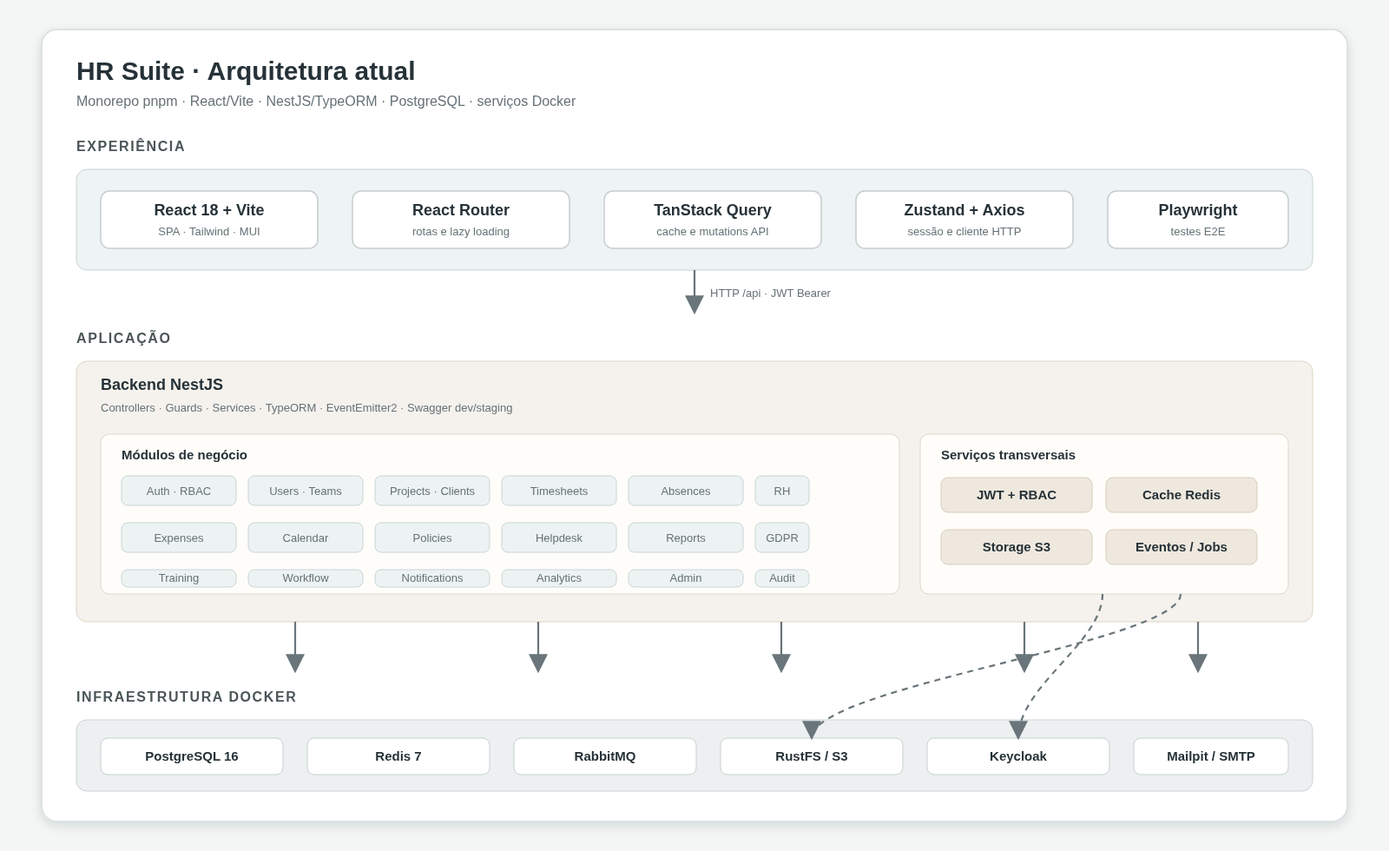
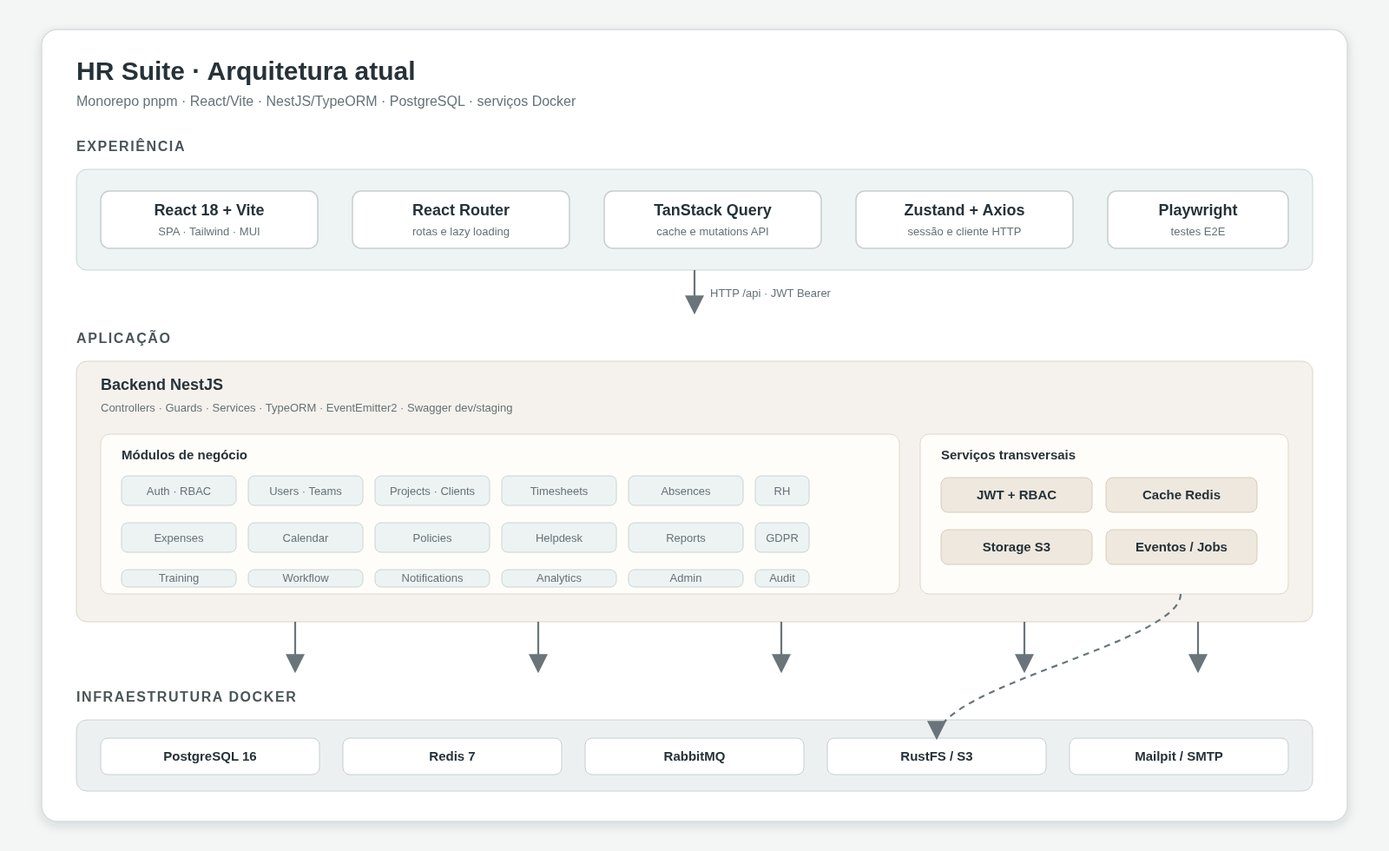
docs: remove Keycloak from the current architecture diagram (P-101)
Keycloak was removed in P-094 but the architecture diagram brought in
from develop still showed it. Remove the node and its connector,
re-space the infrastructure row and re-render the PNG. Add P-094 notes
to two historical entries in specs/AUDIT.md (P101-11).

diff --git a/PROJECT_STATE.md b/PROJECT_STATE.md
@@ -121,6 +121,7 @@
 | P-101     | 04    | 2026-09-29 | **Mensagem em vez de spinner infinito para anexos em falta** (P101-09, escolhido pelo utilizador). `frontend/src/components/AnnouncementAssetPreview.tsx`: o hook `useAnnouncementAssetObjectUrl` devolve `{ objectUrl, isError }`, e os ramos de imagem e vídeo mostram `Ficheiro não disponível` (`Typography` `text.secondary`, `body2`) quando o download falha. Sem alteração ao `retry: 1` global do React Query — a mensagem aparece ≈1,4 s depois. Frontend sem testes unitários; verificado num browser real (Playwright/Chromium) contra o `docker-compose.devserver.yml` reconstruído num projeto isolado com o build de produção do frontend: comunicado com o ficheiro apagado no RustFS mostra a mensagem, sem spinner nem `img`; comunicado com ficheiro válido continua a mostrar a imagem (480x240) sem mensagem. ESLint 0 erros (o aviso `explicit-function-return-type` na limpeza do `useEffect` é anterior); `tsc` limpo. Projeto de teste removido (`down -v --rmi local`).                                                                                                                                                                                                                                                                                                                                                                                                                                                                                                                                                                                                                                                                                                                                                                                                                                                                                                                                                                                                                                                                                                                                                                                                                                                                                                                                                                                                                                                                                                                                                                                                                                                                                                                                                                                                                                                                                                                                                                                                                                                                                                                                                                                                                                                                                                                                                                                                                                                                                                                                                                                                                                                                                                                                                                                                                                                                                                                                                                                                                                                                                                                                                                                                                                                                                                                                                                                                                                                                                                                                                                                                                                                                                                                                                                                                                                                                                                                                         |
 | P-101     | 05    | 2026-09-29 | **README: login na consola do RustFS** (pedido do utilizador — não era óbvio). Nova subsecção "Login na consola do RustFS" em "Aceder": Access Key/Secret Key = `STORAGE_ACCESS_KEY`/`STORAGE_SECRET_KEY` do `.env` (comando para as ver), valores por omissão do compose de dev (`rustfsadmin`), e como recriar o RustFS depois de mudar as chaves (Modo A e Modo B). Verificado antes de documentar, com contentor e volume descartáveis: recriar o RustFS com chaves novas sobre um volume existente mantém o bucket, as chaves novas funcionam e as antigas são rejeitadas (`InvalidAccessKeyId`).                                                                                                                                                                                                                                                                                                                                                                                                                                                                                                                                                                                                                                                                                                                                                                                                                                                                                                                                                                                                                                                                                                                                                                                                                                                                                                                                                                                                                                                                                                                                                                                                                                                                                                                                                                                                                                                                                                                                                                                                                                                                                                                                                                                                                                                                                                                                                                                                                                                                                                                                                                                                                                                                                                                                                                                                                                                                                                                                                                                                                                                                                                                                                                                                                                                                                                                                                                                                                                                                                                                                                                                                                                                                                                                                                                                                                                                                                                                                                                                                                                                                                                                                                                                                                                                                                                                                    |
 | P-101     | 06    | 2026-09-29 | **Merge de `origin/develop` em `feature/rustfs-storage`** (P101-10, escolhido pelo utilizador: o `develop` avançou 5 commits — Políticas/UI da Barbara, `bfa92df`). 2 conflitos: `docs/ARCHITECTURE.md` — mantido o novo diagrama do `develop`, com `RustFS / S3` no lugar de `MinIO / S3` (nó, ligação e texto), ADR-007/ADR-016 intactos; `RESUME_PROMPT.md` — mantido o lado do branch (linha "Stack", P-101, P-100 como fase anterior): o lado do `develop` removia a linha "Stack" e reintroduzia P-090/P-089 com a numeração antiga, cópias das entradas P-098/P-097 já presentes (renumeradas no merge de 2026-09-23); as entradas P-093/P-092 de Políticas entraram sem conflito. Novos ficheiros do `develop` com MinIO: `docs/architecture-current.svg` (etiqueta alterada para `RustFS / S3`) e `docs/architecture-current.png` (re-renderizado a partir do SVG com Chromium a 1600x980 — mesma geometria; o SVG pede `Segoe UI`, fonte do Windows inexistente em Linux, pelo que o PNG usa o fallback Arial declarado no próprio SVG). Verificação pós-merge: `pnpm install --frozen-lockfile`, lint 0 erros (avisos novos vêm do código do `develop`), backend 491/491, `tsc` e build de produção do frontend OK. **Falha encontrada (do `develop`, fora do âmbito):** o novo diagrama mostra um nó **Keycloak**, removido em P-094.                                                                                                                                                                                                                                                                                                                                                                                                                                                                                                                                                                                                                                                                                                                                                                                                                                                                                                                                                                                                                                                                                                                                                                                                                                                                                                                                                                                                                                                                                                                                                                                                                                                                                                                                                                                                                                                                                                                                                                                                                                                                                                                                                                                                                                                                                                                                                                                                                                                                                                                                                                                                                                                                                                                                                                                                                                                                                                                                                                                                                                                                                                                                                                                                                                                                                                                                                                                                                                                                                                                                                                                         |
+| P-101     | 07    | 2026-09-29 | **Referências ao Keycloak como componente atual** (P101-11). `docs/architecture-current.svg`: removidos o nó Keycloak e a ligação tracejada para ele; as 5 caixas restantes da infraestrutura redistribuídas uniformemente (252 px, mesmas margens) e a ligação tracejada de armazenamento reapontada ao centro de `RustFS / S3`; PNG re-renderizado (1600x980) e revisto visualmente. As 3 frases de specs inicialmente classificadas como "atuais" revelaram-se registos de fase (P-059, P-067, P-068): `specs/ADMIN.md` já tinha a nota de P-094; em `specs/AUDIT.md` acrescentadas 2 notas de P-094 no mesmo formato (sem reescrever o histórico) — a segunda afirma que o `POST /admin/users` é o único caminho da aplicação que cria um `User` (além dos seeds), confirmado no código (`AdminService` é o único `userRepository.create`; o GDPR só anonimiza).                                                                                                                                                                                                                                                                                                                                                                                                                                                                                                                                                                                                                                                                                                                                                                                                                                                                                                                                                                                                                                                                                                                                                                                                                                                                                                                                                                                                                                                                                                                                                                                                                                                                                                                                                                                                                                                                                                                                                                                                                                                                                                                                                                                                                                                                                                                                                                                                                                                                                                                                                                                                                                                                                                                                                                                                                                                                                                                                                                                                                                                                                                                                                                                                                                                                                                                                                                                                                                                                                                                                                                                                                                                                                                                                                                                                                                                                                                                                                                                                                                                                      |
 
 | P-089 | 00 | 2026-09-18 | 2 bugs reportados diretamente pelo utilizador ao usar Comunicados. **Bug 1**: `POST /announcements/:id/assets/upload` devolvia 500 (`NoSuchBucket: The specified bucket does not exist`) — o serviço one-shot `createbuckets` (de P-088) nunca tinha corrido de facto neste ambiente local (nem sequer existia parado); corrigido manualmente com `mc mb` ligado à rede `srh-dev_default`, usando as credenciais reais do `.env` (não as de exemplo) — correção pontual de ambiente, sem alteração de código (o bucket volta a desaparecer se os volumes do MinIO forem recriados; o `createbuckets` do compose devia resolver isto automaticamente, mas não foi investigado porquê não correu). **Bug 2**: confirmado que a DB/backend já suportava perfeitamente imagens/vídeos/documentos (`hr.announcement_assets`, sem restrição de mimetype) — o gap real era só no frontend: `AnnouncementsPage.tsx` nunca renderizava `item.assets` (nenhum `<img>`/`<video>`/link) nem oferecia um formulário interativo para responder a `item.forms` (só mostrava o título em texto simples), apesar de `POST /announcements/forms/:formId/responses` já estar implementado no backend sem nenhum consumidor no frontend. Decisão P089-00 (pedido explícito do utilizador): implementar a opção completa, dividida em 2 sub-agentes sequenciais tratando do mesmo ficheiro — Agente 1 acrescentou a renderização de `item.assets` (`image`→`<img>`, `video`→`<video controls>`, `document`/`link`→link clicável); Agente 2 acrescentou nova função `respondToAnnouncementForm()` em `announcements.api.ts` e um novo componente local `AnnouncementFormCard` em `AnnouncementsPage.tsx` (`TextField`/`Select`/`Checkbox` dinâmicos por `AnnouncementFormField.type`, `useMutation` para submeter, mensagem de sucesso/erro). Só frontend alterado (+1 função no cliente API), sem migração nem endpoint novo. `pnpm run lint` (0 erros, 2 avisos pré-existentes de `explicit-function-return-type` não relacionados) e `pnpm run build` (raiz) green. |
 
@@ -281,6 +282,7 @@
 | P101-07 | Há ficheiros no MinIO a preservar antes de trocar para o RustFS (consequência de P101-03)?                                                                                                                                                                            | **Não** — verificado pelo utilizador no servidor de dev a 2026-09-28 (consola do Portainer): `mc du` = 0 objetos em `srh-documents`, e 0 registos em `hr.documents`, `hr.announcement_assets` (com `storage_path`) e `hr.report_jobs` (com `result_url`); dev local também vazio                                                                                                                                                                                                                                                                                                                                                                                                                                                            | Nenhum registo órfão; o branch pode ser integrado sem migração de dados. Não há produção com dados conhecida (Q-RFS-003)          |
 | P101-08 | Objeto em falta no armazenamento: manter o 500 ou devolver 404                                                                                                                                                                                                        | **404** — escolhido pelo utilizador. `StorageService.getObjectStream()` converte `NoSuchKey` em `NotFoundException('Ficheiro não disponível')`; outros erros continuam a propagar                                                                                                                                                                                                                                                                                                                                                                                                                                                                                                                                                           | Documents, Comunicados e Relatórios (os 3 chamadores) passam a responder 404 quando o ficheiro não existe                         |
 | P101-09 | Anexo de Comunicado cujo ficheiro falta: spinner infinito no frontend                                                                                                                                                                                                 | **Corrigir já** — escolhido pelo utilizador. `useAnnouncementAssetObjectUrl` passa a devolver também `isError`; imagem e vídeo mostram "Ficheiro não disponível" em vez do spinner                                                                                                                                                                                                                                                                                                                                                                                                                                                                                                                                                          | Comunicados e Dashboard (os 2 sítios que usam `AnnouncementAssetPreview`); documentos e links não mudam                           |
+| P101-11 | Que referências ao Keycloak remover (77 em 13 ficheiros: diagrama atual, notas "removido em P-094", passos de limpeza em upgrades, requisito de SSO adiado, histórico)                                                                                                | **Só o que o descreve como atual** — escolhido pelo utilizador                                                                                                                                                                                                                                                                                                                                                                                                                                                                                                                                                                                                                                                                              | Diagrama corrigido; notas de P-094, passos de upgrade, `specs/AUTH.md` (UC-AUTH-002) e histórico mantidos                         |
 
 ## Current State
 

diff --git a/specs/AUDIT.md b/specs/AUDIT.md
@@ -177,11 +177,11 @@ Novo `ContractsService.terminate(id, dto)` (valida `status === ACTIVE`, mesmo pa
 
 **Verificação em ambiente real completa**: contrato de teste real criado (`draft`); `terminate` tentado antes de ativar corretamente rejeitado (400, máquina de estados); contrato ativado via `PATCH`; `terminate` confirmado a definir `status: terminated`, `terminatedAt` e `terminationReason`; `hr.audit_logs` confirmado via `psql` a registar `Created`/`Updated`/`Terminated` para o contrato de teste. Dados de teste eliminados, `hr.audit_logs` limpa no fecho da sessão.
 
-**Restam por ligar**: só 1 evento — Admin `UserCreated` (sem fluxo admin de criação de conta `User`, só provisionamento JIT via Keycloak no primeiro login SSO). Ver `specs/GLOBAL-TASKS-RISKS.md` (`R-044`) para o detalhe atualizado.
+**Restam por ligar**: só 1 evento — Admin `UserCreated` (sem fluxo admin de criação de conta `User`, só provisionamento JIT via Keycloak no primeiro login SSO). Ver `specs/GLOBAL-TASKS-RISKS.md` (`R-044`) para o detalhe atualizado. _(Nota de P-094: o Keycloak e o SSO foram removidos — o provisionamento JIT deixou de existir.)_
 
 ### Wiring final — Admin UserCreated (P-068), `R-044` resolvido
 
-Investigação confirmou que o único caminho que cria um `User` hoje é o provisionamento JIT via Keycloak no primeiro login SSO (`KeycloakService.syncUser()`); não existe nenhum fluxo admin de criação manual de conta, e nem `specs/USERS.md` nem `specs/ADMIN.md` alguma vez o descreveram — `Q-USR-001` ("onboarding formal") continua em aberto em `specs/USERS.md`. Apresentadas 4 opções ao utilizador (decisão P068-01): documentar sem correspondência real (mesmo padrão de `gdpr.incident.escalated` em P-048), um endpoint `User` isolado mínimo, reaproveitar `POST /users` (Employee) assumindo ser a mesma ação (mesmo raciocínio de RBAC em P-066), ou um endpoint completo `User`+`Employee` com fluxo de credenciais/convite. **Escolhido o endpoint `User` isolado mínimo** — reaproveitar `POST /users` foi descartado porque um `User` normalmente já existe via JIT _antes_ do `Employee` correspondente ser criado, pelo que "Employee criado" não corresponde de forma fiável a "User criado"; o endpoint completo foi descartado por arrastar `Q-USR-001` (decisão de produto maior, não pedida).
+Investigação confirmou que o único caminho que cria um `User` hoje é o provisionamento JIT via Keycloak no primeiro login SSO (`KeycloakService.syncUser()`); não existe nenhum fluxo admin de criação manual de conta, e nem `specs/USERS.md` nem `specs/ADMIN.md` alguma vez o descreveram — `Q-USR-001` ("onboarding formal") continua em aberto em `specs/USERS.md`. _(Nota de P-094: o Keycloak, o SSO e o provisionamento JIT foram removidos; desde então, o `POST /admin/users` criado nesta fase é o único caminho da aplicação que cria um `User` (além dos seeds).)_ Apresentadas 4 opções ao utilizador (decisão P068-01): documentar sem correspondência real (mesmo padrão de `gdpr.incident.escalated` em P-048), um endpoint `User` isolado mínimo, reaproveitar `POST /users` (Employee) assumindo ser a mesma ação (mesmo raciocínio de RBAC em P-066), ou um endpoint completo `User`+`Employee` com fluxo de credenciais/convite. **Escolhido o endpoint `User` isolado mínimo** — reaproveitar `POST /users` foi descartado porque um `User` normalmente já existe via JIT _antes_ do `Employee` correspondente ser criado, pelo que "Employee criado" não corresponde de forma fiável a "User criado"; o endpoint completo foi descartado por arrastar `Q-USR-001` (decisão de produto maior, não pedida).
 
 Duas sub-decisões fechadas com o utilizador antes de implementar — (P068-02) role por defeito do `User` criado: **`EMPLOYEE` automático**, alinhando com o que UC-AUTH-002 (`specs/AUTH.md`) já dizia dever acontecer no JIT mas nunca foi implementado (ver `R-AUTH-004`); (P068-03) email já existente via JIT prévio: **409 Conflict** (o evento chama-se `UserCreated`; dispará-lo sem uma criação real seria auditoria enganosa) — a mesma verificação aplica-se ao `username` derivado.
 

diff --git a/RESUME_PROMPT.md b/RESUME_PROMPT.md
@@ -161,7 +161,7 @@ Não escolhas por conta própria; usa esta lista para apresentar opções ao uti
 - ~~Imagens do MinIO inacessíveis / projeto MinIO descontinuado~~ **Resolvido em P-101** — os três composes usam o RustFS (`rustfs/rustfs:1.0.0`) e a AWS CLI no `createbuckets`. Para mudar de versão, alterar as tags nos três ficheiros e voltar a validar upload, download e remoção de documentos.
 - ~~Registos órfãos depois da troca para o RustFS (consequência de P101-03)~~ **Não se verifica (P101-07)**: servidor de dev e dev local verificados a 2026-09-28 — 0 objetos no MinIO e 0 registos com chave de objeto. ~~P101-08: objeto em falta chegava ao cliente como 500~~ **Resolvido em P-101/02** — `StorageService.getObjectStream()` devolve 404 (`Ficheiro não disponível`) para `NoSuchKey`.
 - ~~[Comunicados] spinner infinito quando o ficheiro de um anexo falta (descoberto em P-101/03)~~ **Resolvido em P-101/04** (P101-09) — imagem/vídeo em falta mostram "Ficheiro não disponível".
-- **Diagrama de arquitetura desatualizado (descoberto em P-101/06, vindo do `develop`)**: `docs/architecture-current.svg`/`.png` mostram um nó **Keycloak**, removido em P-094 (e o `.png` foi re-renderizado em Linux com o fallback Arial, porque o SVG pede `Segoe UI`). Não corrigido — fora do âmbito; decidir com o utilizador/autora do diagrama.
+- ~~Diagrama de arquitetura com um nó Keycloak (descoberto em P-101/06, vindo do `develop`)~~ **Resolvido em P-101/07** (P101-11). Nota que se mantém: `docs/architecture-current.png` foi re-renderizado em Linux com o fallback Arial, porque o SVG pede `Segoe UI` (fonte do Windows) — reexportar no Windows se se quiser o aspeto original.
 - **`StorageService.getPresignedUrl()` sem chamadas (descoberto em P-099)**: Documents e Comunicados fazem streaming pelo backend (`R-037`, P-098); o método ficou sem uso. Candidato a limpeza (código órfão), não é um bug.
 - ~~`R-053` (descoberto em P-080, durante a verificação em browser) — `DashboardPage.tsx` chama `fetchEmployees()`/`fetchCapacityForecast()` (ADMIN/MANAGER-only) incondicionalmente para qualquer papel~~ **Resolvido em P-081** — `enabled: isManagerOrAdmin` acrescentado às 2 queries, mesma lógica de `AppLayout.tsx`. Ver `specs/GLOBAL-TASKS-RISKS.md`.
 - **24 achados Médios e 14 Baixos da auditoria de 2026-08-16, por avaliar.** Padrão comum: código órfão (`softDelete` nunca chamado em Clients, `ProjectTeamAllocation` nunca usada), gaps de teste em módulos com poucos testes (Training/Helpdesk 8 testes, agora Médio — ver reconciliação de 2026-08-17 00:40), inconsistências de verificação de ownership (Helpdesk `findOne`/`addComment` sem verificação nenhuma). Ver `AUDIT_REPORT_2026-08-16.md` secções "Médio"/"Baixo" para a lista completa — muitos são triviais mas nunca foram confirmados com o utilizador individualmente.
